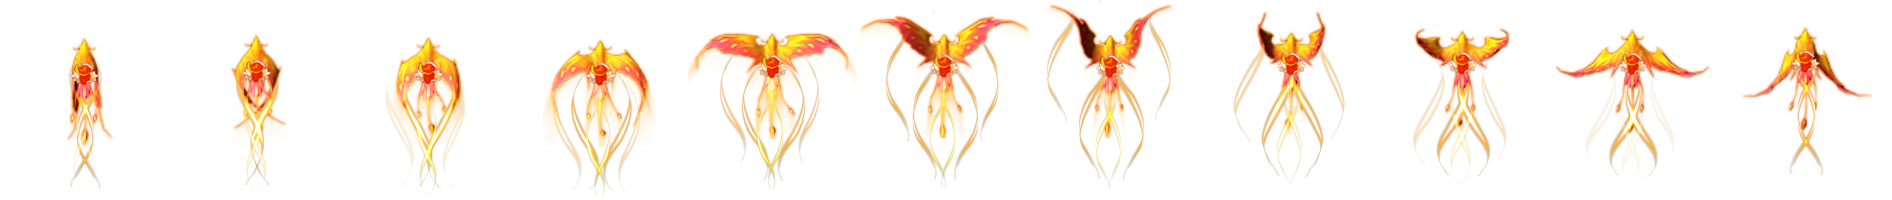
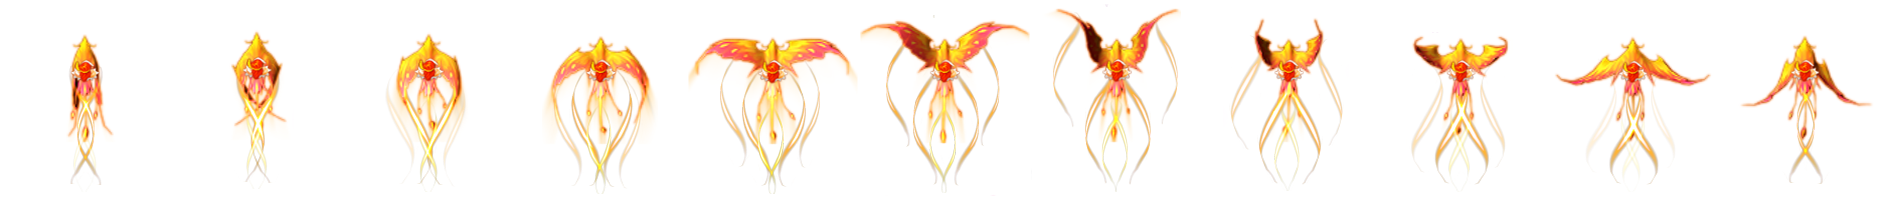
test png

diff --git a/imgtest/js/index.js b/imgtest/js/index.js
@@ -36,8 +36,8 @@ var index = 0;
 var ele = document.getElementById('demo');
 
 
-// setInterval(function () {
-//     ele.style.backgroundPositionX = - index * 172 + 'px';
-//     index++;
-//     if (index >= 11) index = 0;
-// }, 100);
+setInterval(function () {
+    ele.style.backgroundPositionX = - index * 172 + 'px';
+    index++;
+    if (index >= 11) index = 0;
+}, 100);

diff --git a/imgtest/css/index.css b/imgtest/css/index.css
@@ -4,6 +4,6 @@
     width: 172px;
     height: 200px;
     margin: 50px auto;
-    background: url(../img/demo.png) no-repeat;
+    background: url(../img/ok.png) no-repeat;
     background-position: 0 0;
 }
